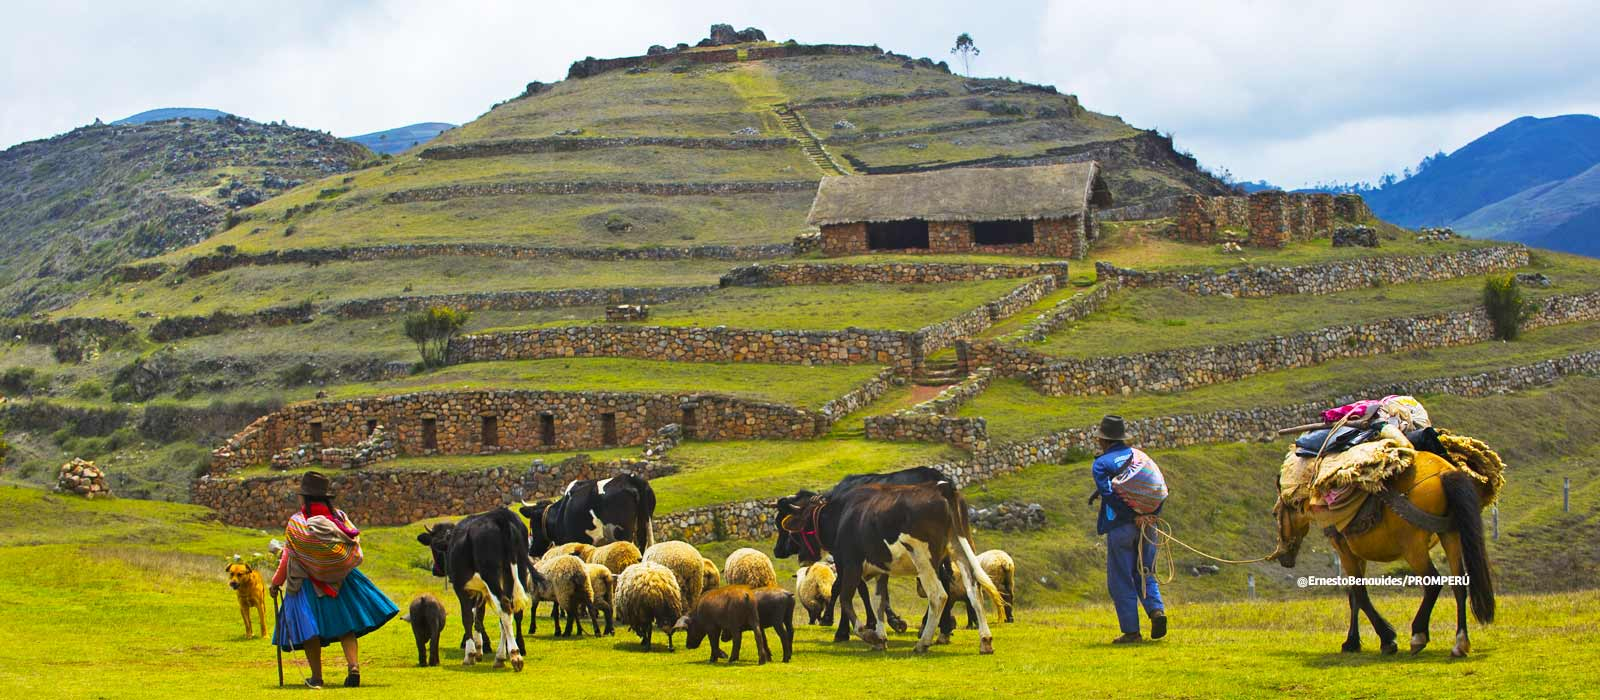
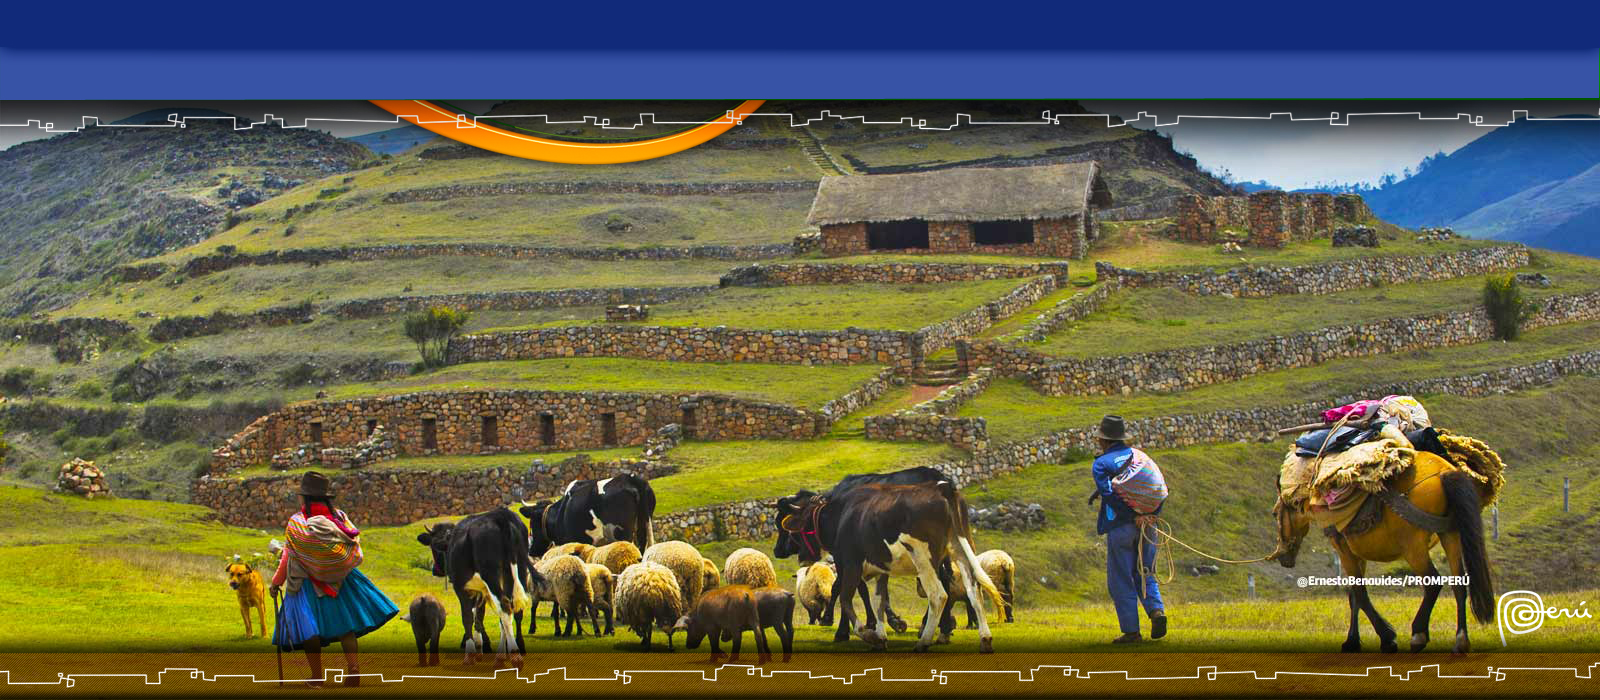
Change
Style Banner

diff --git a/css/apiettravel.css b/css/apiettravel.css
@@ -94,7 +94,7 @@ footer .row .terminos:active
 	bottom: 20px;
 	right: 20px;
 	border-radius: 20px;
-	z-index: 1;
+	z-index: 1024;
 }
 
 .footer-top
@@ -153,6 +153,11 @@ footer .row .terminos:active
 	background-color: rgb(63, 81, 181);
 }
 
+.carousel-caption > h3
+{
+  margin-top: 0;
+}
+
 /* Weather */
 .info_bg p {
   margin-bottom: -.2em;
@@ -181,7 +186,7 @@ footer .row .terminos:active
 }
 
 .containerWeather {
-  position: absolute;
+  position: relative;
   top: 0;
   bottom: 0;
   left: 0;

diff --git a/index.php b/index.php
@@ -15,24 +15,35 @@
 			    <li data-target="#carouselExampleIndicators" data-slide-to="0" class="active"></li>
 			    <li data-target="#carouselExampleIndicators" data-slide-to="1"></li>
 			    <li data-target="#carouselExampleIndicators" data-slide-to="2"></li>			    
+			    <li data-target="#carouselExampleIndicators" data-slide-to="3"></li>
 			  </ol>
 			  <div class="carousel-inner">
 			    <div class="carousel-item active">
 			      <img class="d-block w-100" src="img/carousel/Santuario-Nacional-de-Ampay-Apurimac-1.jpg" alt="First slide">
 			      <div class="carousel-caption d-none d-md-block">
 		            <h3>Santuario Nacional de Ampay</h3>
+		            <p></p>
 		          </div>
 			    </div>
 			    <div class="carousel-item">
 			      <img class="d-block w-100" src="img/carousel/Tuna-Santuario-Nacional-de-Ampay-Apurimac-2.jpg" alt="Second slide">
 			      <div class="carousel-caption d-none d-md-block">
 		            <h3>Tuna Santuario Nacional de Ampay</h3>
+		            <p></p>
 		          </div>
 			    </div>
 			    <div class="carousel-item">
 			      <img class="d-block w-100" src="img/carousel/Laguna-Pacucha-Apurimac-1.jpg" alt="Third slide">
 			      <div class="carousel-caption d-none d-md-block">
 		            <h3>Laguna de Pacucha</h3>
+		            <p></p>
+		          </div>
+			    </div>
+			    <div class="carousel-item">
+			      <img class="d-block w-100" src="img/carousel/Complejo-arqueologico-de-Sondor-Apurimac-2.jpg" alt="Fourth slide">
+			      <div class="carousel-caption d-none d-md-block">
+		            <h3>Complejo Arqueológico de Sondor</h3>
+		            <p></p>
 		          </div>
 			    </div>
 			  </div>
@@ -224,19 +235,21 @@
 				</div>
 				<div class="col-sm-12 col-md-6">
 					<h1>Clima</h1>
-					<div class="containerWeather clearfix">
-					    <p class="location"></p>
-					    <p class="temperature"></p>
-					    <div class="climate_bg"></div>
-					    <div class="info_bg">
-					      <img class="dropicon" src="img/weather/Droplet.svg">
-					      <p class="humidity"></p>
-
-					      <img class="windicon" src="img/weather/Wind.svg">
-					      <div class="windspeed"></div>
-					    </div>
-					 </div>
-					 <div class="error"></div>
+					<center>
+						<div class="containerWeather clearfix">
+						    <p class="location"></p>
+						    <p class="temperature"></p>
+						    <div class="climate_bg"></div>
+						    <div class="info_bg">
+						      <img class="dropicon" src="img/weather/Droplet.svg">
+						      <p class="humidity"></p>
+						
+						      <img class="windicon" src="img/weather/Wind.svg">
+						      <div class="windspeed"></div>
+						    </div>
+						</div>
+					</center>
+					<div class="error"></div>
 				</div>
 			</div>
 		</div>

diff --git a/header.php b/header.php
@@ -3,7 +3,7 @@
 	<head>
 		<meta charset="UTF-8">
 		<title>ApietTravel</title>
-		<link rel="shortcut icon" type="image/x-icon" href="img/favicon.ico">
+		<link rel="shortcut icon" type="image/x-icon" href="img/favicon.png">
 		<!-- CSS BOOTSTRAP -->
 		<link rel="stylesheet" href="https://maxcdn.bootstrapcdn.com/bootstrap/4.0.0-beta.2/css/bootstrap.min.css" integrity="sha384-PsH8R72JQ3SOdhVi3uxftmaW6Vc51MKb0q5P2rRUpPvrszuE4W1povHYgTpBfshb" crossorigin="anonymous">
 		<!-- STYLE APIETTRAVEL -->
